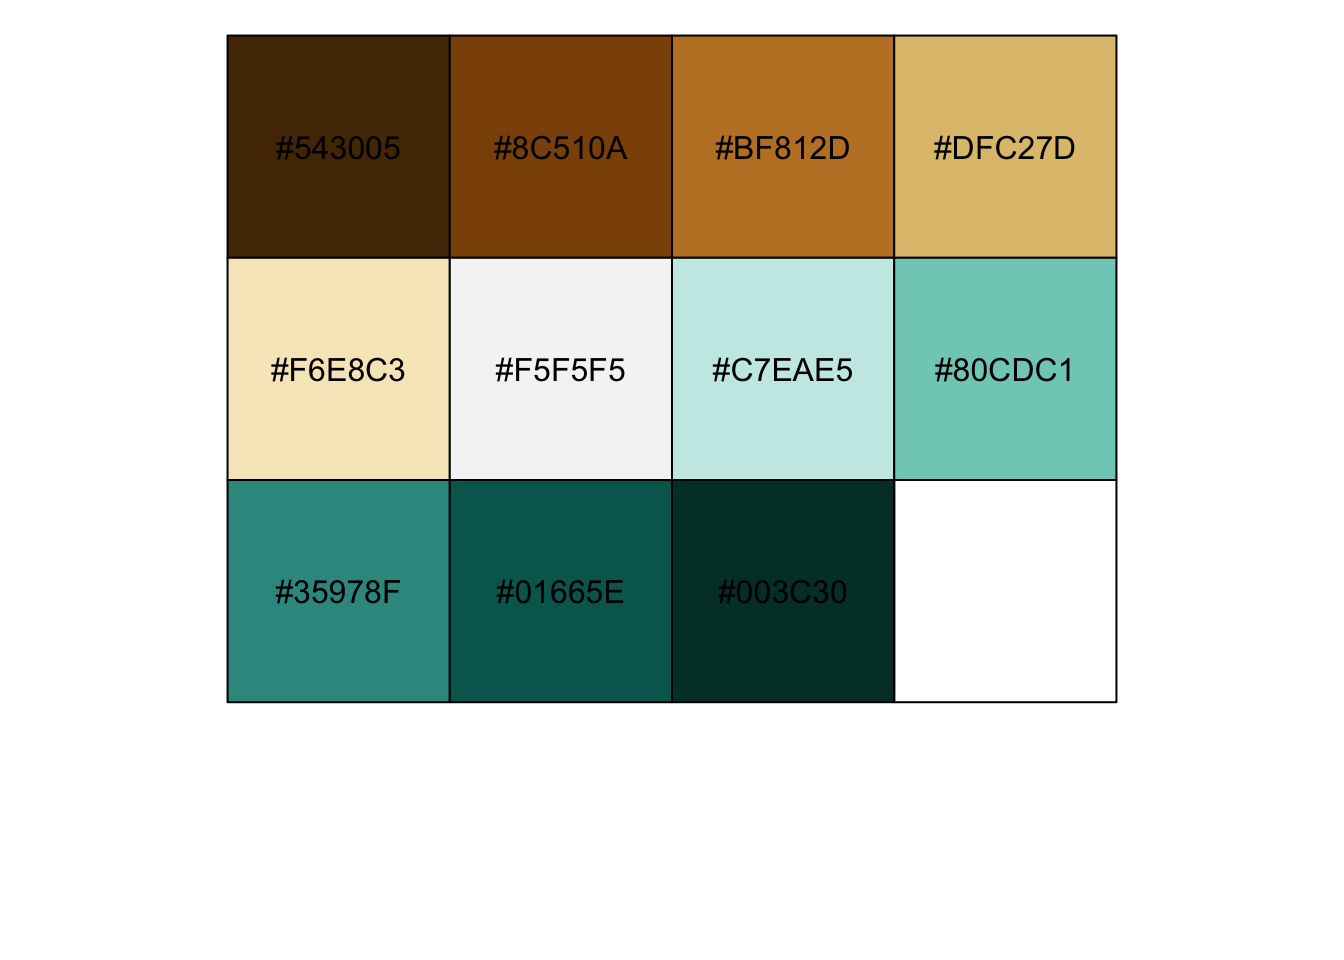
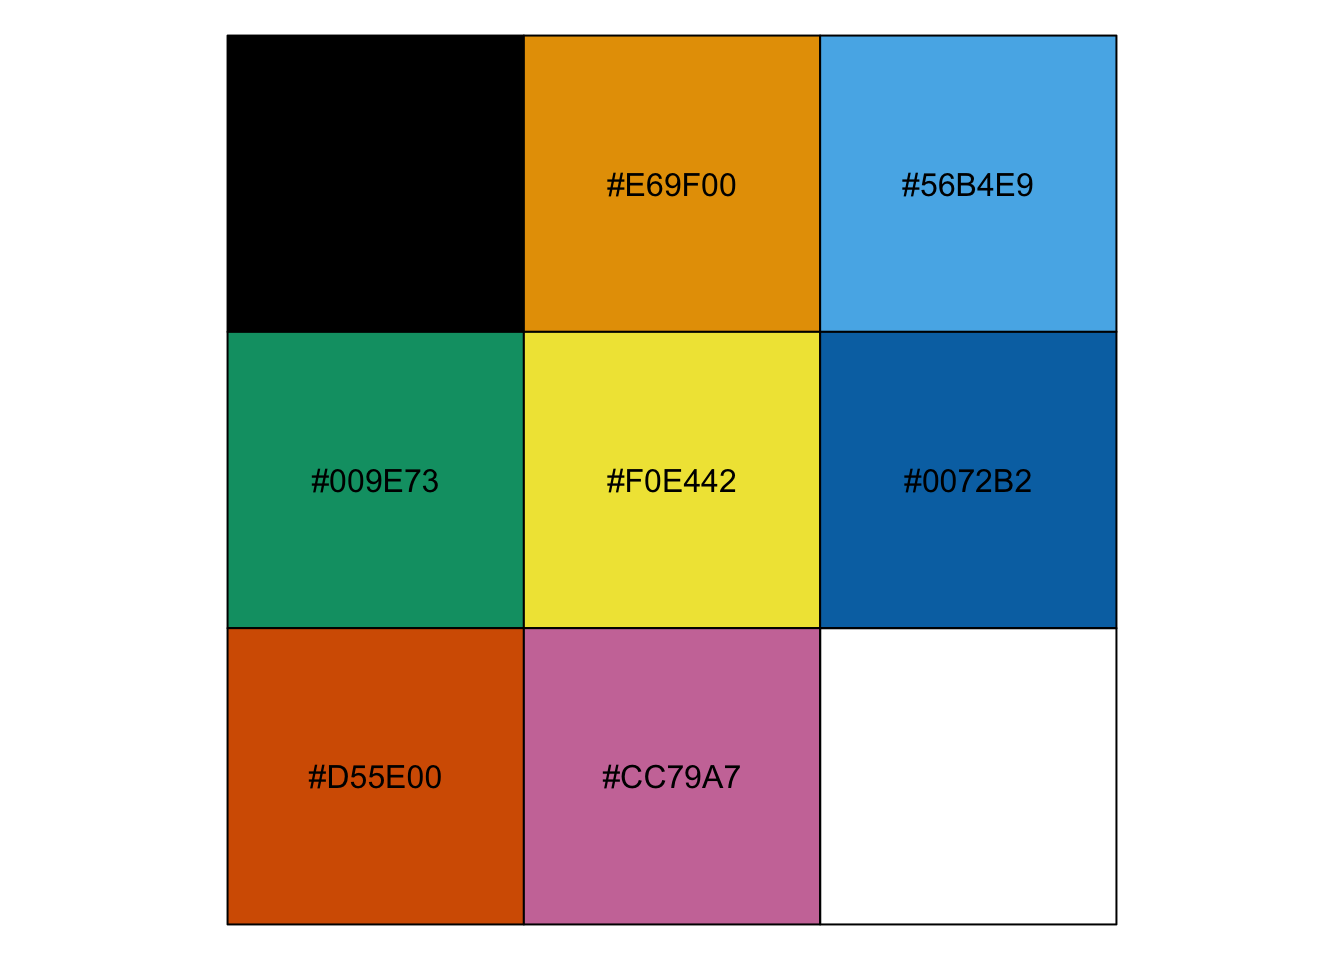
updates

diff --git a/public/tags/r/index.html b/public/tags/r/index.html
@@ -80,7 +80,7 @@
   <meta property="og:description" content="Post Doctoral Fellow">
   <meta property="og:locale" content="en-us">
   
-  <meta property="og:updated_time" content="2018-06-10T00:00:00&#43;00:00">
+  <meta property="og:updated_time" content="2018-07-22T00:00:00&#43;00:00">
   
 
   
@@ -251,11 +251,20 @@
   
   
   <div>
-    <h2><a href="/post/stats-software-compared-a-n00bs-viewpoint/">Stats software compared: A n00bs Viewpoint</a></h2>
+    <h2><a href="/post/color-palettes-in-r/">Color Palettes in R</a></h2>
     <div class="article-style">
       
-      While in my MPH training I had the opportunity to use (in class) both Stata and SAS. They were both great, but it became apparent during that time that serious stat were done with R. Further, visualizations that I saw from R packages like ggplot were just so much prettier than anything I saw in SAS or Stata.
-There were no specific classes to learn R during my MPH, but I was able to teach myself by taking free online class, googling answer, and just experimenting with my data and comparing it to other software I already knew.
+      Colors, amirite? Finding the right ones to make a plot look good can be hard. I always like to use colors that really help set my plots apart. tidyverse and ggplot in particular are great at incorporating wonderful palettes. However, recently I was vexed by a plot where I couldnt just use a theme addition to add the colors I wanted and instead had to specify each color I wanted. At the time I wanted to use something from the ggsci package but coudlnt find the names or hex codes for the color.
+      
+    </div>
+  </div>
+  
+  <div>
+    <h2><a href="/post/how-to-visualize-binary-outcomes-in-research/">How to Visualize Binary Outcomes in Research</a></h2>
+    <div class="article-style">
+      
+      In my research I frequently want visualize outcomes over groups. The nature of clinical reserach means that often times outcomes are binary and I want to find the proportion of binary outcomes over groups. This was not straight forward for me, so I decided to make a post about it.
+load libraries library(tidyverse) library(ggpubr)  create the variables set.seed(15762) death&lt;-rbinom(1000,1,0.03) readmit &lt;-rbinom(1000,1, 0.1) id&lt;-rbinom(1000,5,0.2)  combine into dataframe x &lt;- data.
       
     </div>
   </div>
